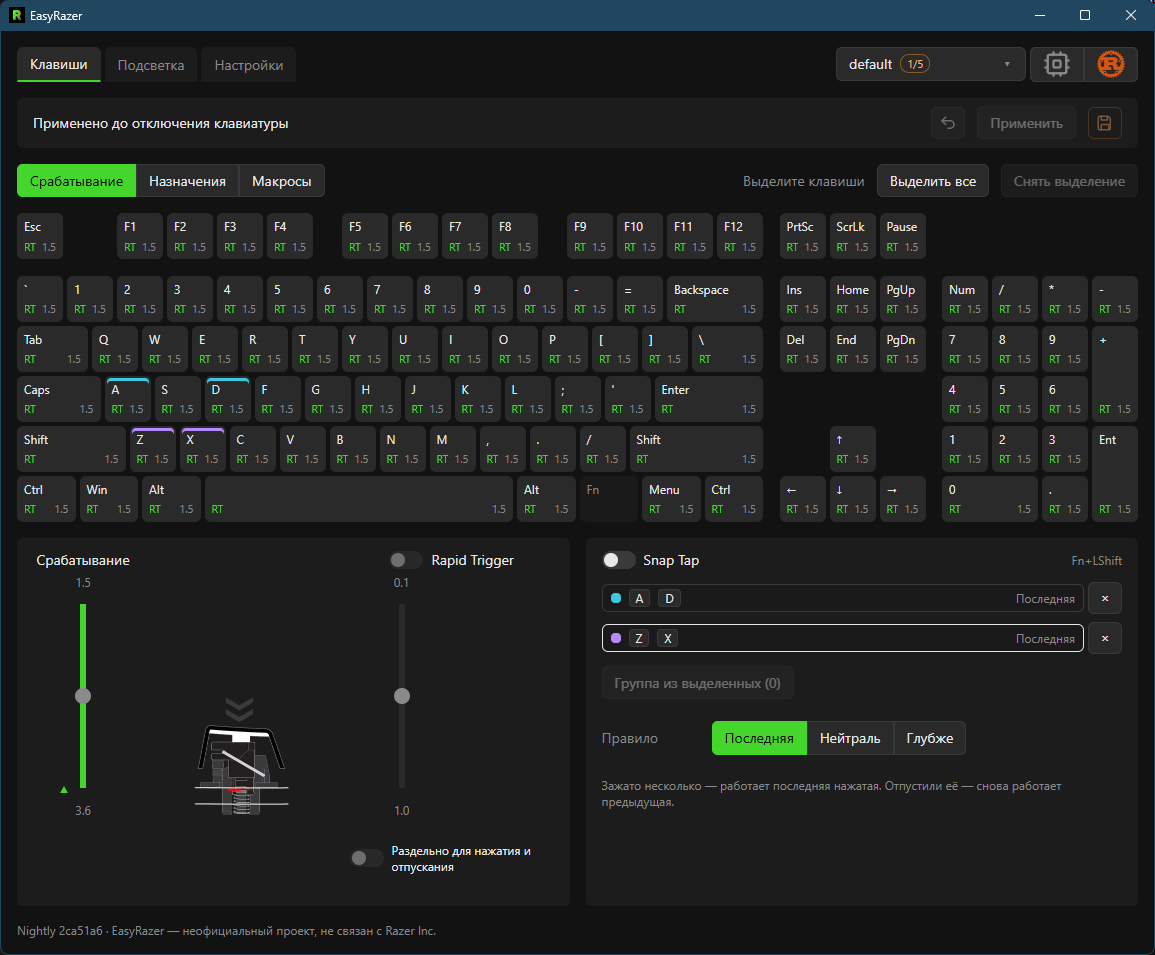
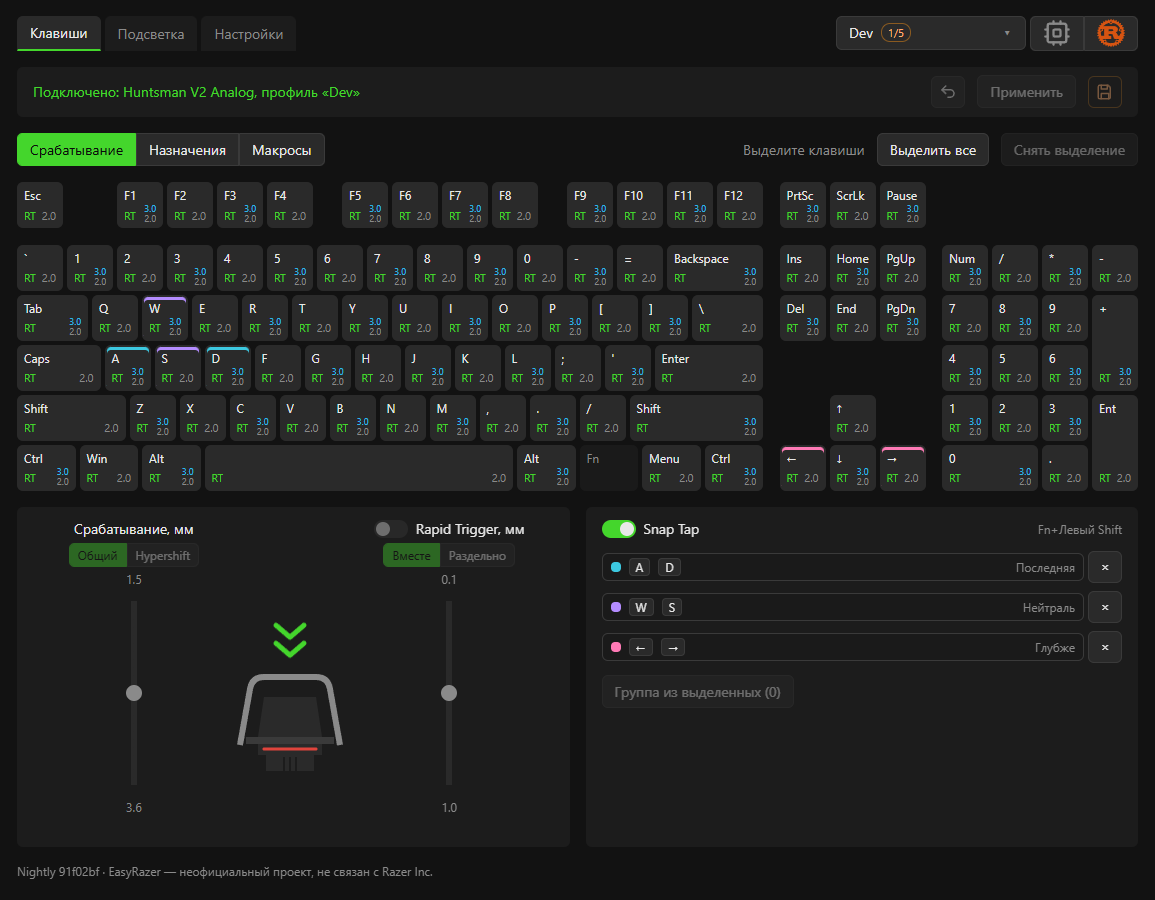
docs: move the feature table out of the README

diff --git a/docs/ru/README.md b/docs/ru/README.md
@@ -35,12 +35,12 @@
 
 ## Поддерживаемые клавиатуры
 
-| Модель | Точка нажатия | Rapid Trigger | Snap Tap | Назначения | Макросы | Hypershift | Подсветка | Статус | Примечания |
-|---|---|---|---|---|---|---|---|---|---|
-| Huntsman V2 Analog (`1532:0266`) | ✅ | ✅ | ✅ | ✅ | ✅ | ✅ | ✅ | Поддерживается, проверено на железе | Rapid Trigger и Snap Tap считает программа (режим «Драйвер»); часть режимов макросов не проверена |
-| Huntsman V3 Pro (`1532:02A6`) | 🧪 | 🧪 | 🧪 | — | — | — | 🧪 | В разработке, на железе не проверено | По умолчанию только чтение; с разрешением в настройках пишет в оперативную память клавиатуры, в её память — нет. В HW режиме Rapid Trigger и одну пару Snap Tap считает прошивка; нужен тестер с клавиатурой |
+| Модель | Поддержка |
+|---|---|
+| Huntsman V2 Analog (`1532:0266`) | полная |
+| Huntsman V3 Pro (`1532:02A6`) | в разработке, на железе не проверено |
 
-Протокол и прошивка каждой модели — в [devices](devices/README.md).
+Возможности по моделям и оговорки — в [полной таблице](supported.md).
 
 ## Сравнение с Synapse
 

diff --git a/docs/ru/supported.md b/docs/ru/supported.md
@@ -1,0 +1,21 @@
+# Поддерживаемые клавиатуры
+
+✅ поддерживается, 🧪 сделано, но на железе не проверено, — не поддерживается.
+
+| Модель | Точка нажатия | Rapid Trigger | Snap Tap | Назначения | Макросы | Hypershift | Подсветка |
+|---|---|---|---|---|---|---|---|
+| Huntsman V2 Analog (`1532:0266`) | ✅ | ✅ | ✅ | ✅ | ✅ | ✅ | ✅ |
+| Huntsman V3 Pro (`1532:02A6`) | 🧪 | 🧪 | 🧪 | — | — | — | 🧪 |
+
+## Huntsman V2 Analog
+
+Поддерживается, проверено на железе. Rapid Trigger и Snap Tap считает программа
+(режим «Драйвер»); часть режимов макросов не проверена.
+
+## Huntsman V3 Pro
+
+В разработке, на железе не проверено. По умолчанию только чтение; с разрешением в
+настройках пишет в оперативную память клавиатуры, в её память — нет. В HW режиме
+Rapid Trigger и одну пару Snap Tap считает прошивка. Нужен тестер с клавиатурой.
+
+Протокол и прошивка каждой модели — в [devices](devices/README.md).

diff --git a/README.md b/README.md
@@ -34,12 +34,12 @@ Details and caveats: [user guide](docs/en/usage.md).
 
 ## Supported keyboards
 
-| Model | Actuation | Rapid Trigger | Snap Tap | Remapping | Macros | Hypershift | Lighting | Status | Notes |
-|---|---|---|---|---|---|---|---|---|---|
-| Huntsman V2 Analog (`1532:0266`) | ✅ | ✅ | ✅ | ✅ | ✅ | ✅ | ✅ | Supported, tested on hardware | Rapid Trigger and Snap Tap are computed by the app (driver mode); some macro modes are untested |
-| Huntsman V3 Pro (`1532:02A6`) | 🧪 | 🧪 | 🧪 | — | — | — | 🧪 | In development, not tested on hardware | Read only by default; writes to the keyboard's RAM after allowing it in Settings, never to its memory. In HW mode the firmware runs Rapid Trigger and one Snap Tap pair; a tester with the keyboard is needed |
+| Model | Support |
+|---|---|
+| Huntsman V2 Analog (`1532:0266`) | full |
+| Huntsman V3 Pro (`1532:02A6`) | in development, not tested on hardware |
 
-Protocol and firmware notes for each model: [docs/en/devices](docs/en/devices/README.md).
+Features per model and caveats: [full table](docs/en/supported.md).
 
 ## Compared to Synapse
 

diff --git a/docs/en/supported.md b/docs/en/supported.md
@@ -1,0 +1,21 @@
+# Supported keyboards
+
+✅ supported, 🧪 implemented but not tested on hardware, — not supported.
+
+| Model | Actuation | Rapid Trigger | Snap Tap | Remapping | Macros | Hypershift | Lighting |
+|---|---|---|---|---|---|---|---|
+| Huntsman V2 Analog (`1532:0266`) | ✅ | ✅ | ✅ | ✅ | ✅ | ✅ | ✅ |
+| Huntsman V3 Pro (`1532:02A6`) | 🧪 | 🧪 | 🧪 | — | — | — | 🧪 |
+
+## Huntsman V2 Analog
+
+Supported, tested on hardware. Rapid Trigger and Snap Tap are computed by the app
+(driver mode); some macro modes are untested.
+
+## Huntsman V3 Pro
+
+In development, not tested on hardware. Read only by default; writes to the keyboard's
+RAM after allowing it in Settings, never to its memory. In HW mode the firmware runs
+Rapid Trigger and one Snap Tap pair. A tester with the keyboard is needed.
+
+Protocol and firmware notes for each model: [devices](devices/README.md).
